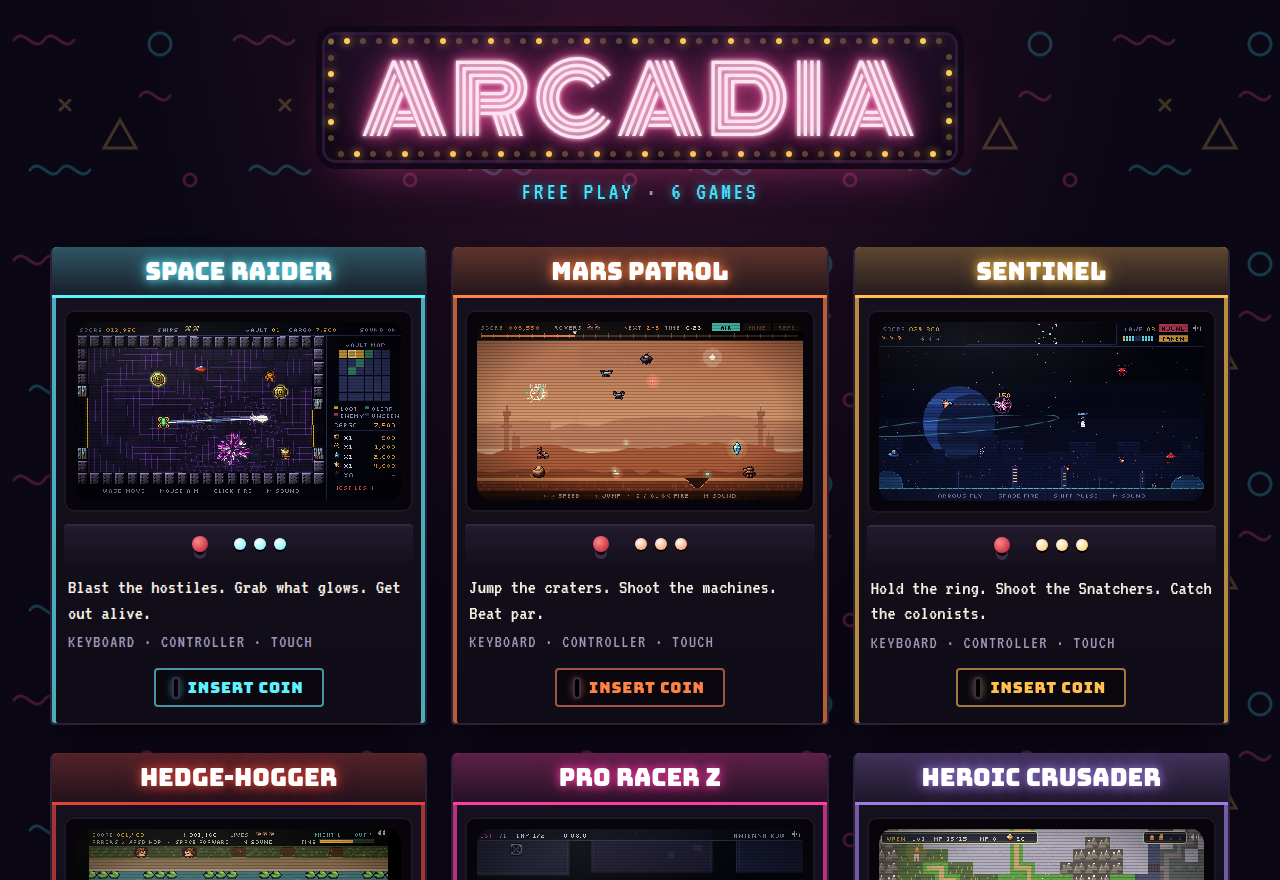
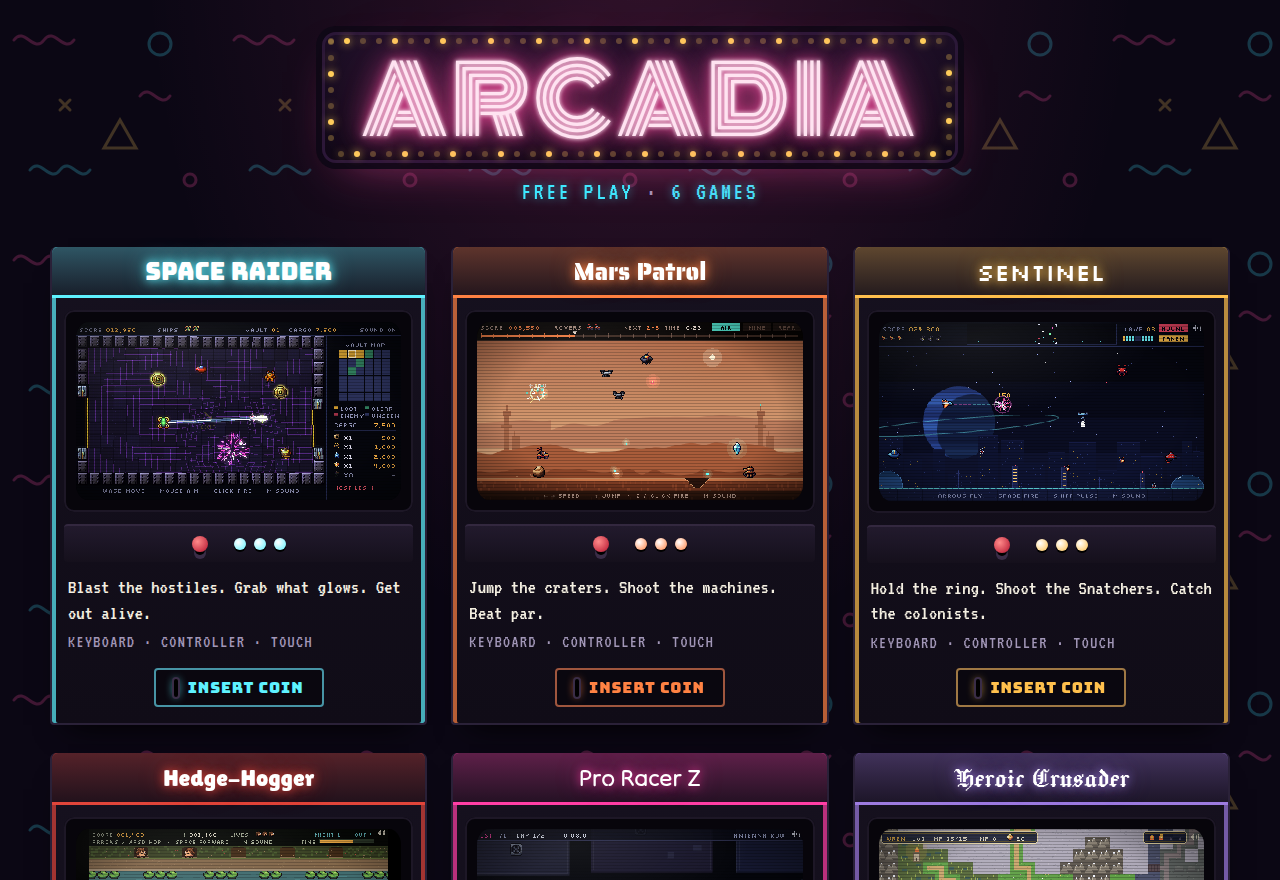
Update README and screenshot for branded marquees

diff --git a/README.md b/README.md
@@ -11,13 +11,13 @@ An arcade floor for a collection of original browser games. Each cabinet shows i
 [![Deploy](https://github.com/leeeeeroyj/arcadia/actions/workflows/deploy.yml/badge.svg)](https://github.com/leeeeeroyj/arcadia/actions/workflows/deploy.yml)
 [![License: MIT](https://img.shields.io/badge/License-MIT-yellow.svg)](LICENSE)
 
-![Arcadia: a pink neon ARCADIA sign ringed with marquee bulbs over a row of arcade cabinets for Space Raider, Mars Patrol and Sentinel, each with a lit marquee, a gameplay screen, a joystick and an Insert Coin button, on dark carpet patterned with neon squiggles](docs/screenshot.png)
+![Arcadia: a pink neon ARCADIA sign ringed with marquee bulbs over two rows of arcade cabinets on dark carpet patterned with neon squiggles. Each cabinet has a lit marquee lettered in its game's own font (stencil for Mars Patrol, pixel type for Sentinel, blackletter for Heroic Crusader), a gameplay screen, a joystick and an Insert Coin button](docs/screenshot.png)
 
 </div>
 
 ## About
 
-- **A cabinet for every game.** Each has a lit marquee and side art in its game's colour, a CRT screen with scanlines, and a control panel.
+- **A cabinet for every game.** Each has a lit marquee lettered in its game's own display font, side art in its game's colour, a CRT screen with scanlines, and a control panel.
 - **Screens that play.** Hover a cabinet, or scroll it into view on a phone, and its screen runs a short loop of real gameplay. Otherwise it shows a still.
 - **Know before you play.** Every cabinet lists the inputs its game takes. On a phone, games that need a keyboard or controller say so.
 - **Your best score.** Games that save a high score show it on their cabinet.
@@ -52,6 +52,8 @@ Each game is its own repository and GitHub Pages site. Arcadia links to them and
    ```
 
    `slug` is the game's repository name, so the cabinet links to `../<slug>/`. `hiKey` (optional) is the `localStorage` key where the game keeps its high score.
+
+   `font` (optional) is a CSS font stack for the marquee title, usually the display font from the game's concept sheet; add the family to the Google Fonts link in `site/index.html`. Without it the marquee uses Bungee. `fontScale` (optional) sizes the title up or down for a font that reads small or large, such as `1.3`.
 2. Put a 416 × 228 still in `site/screens/<slug>.png`.
 3. Add a script for it to `tools/record-loops.mjs` and record its loop (below).
 
